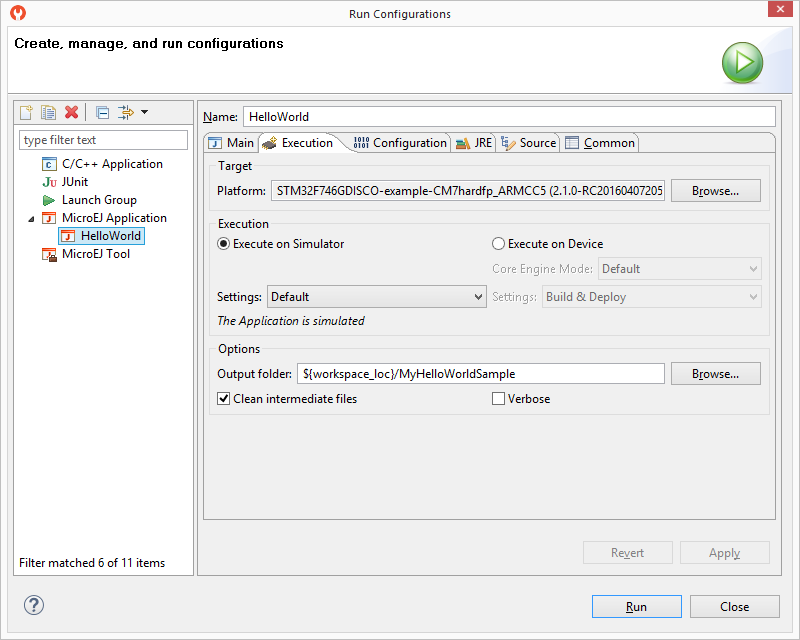
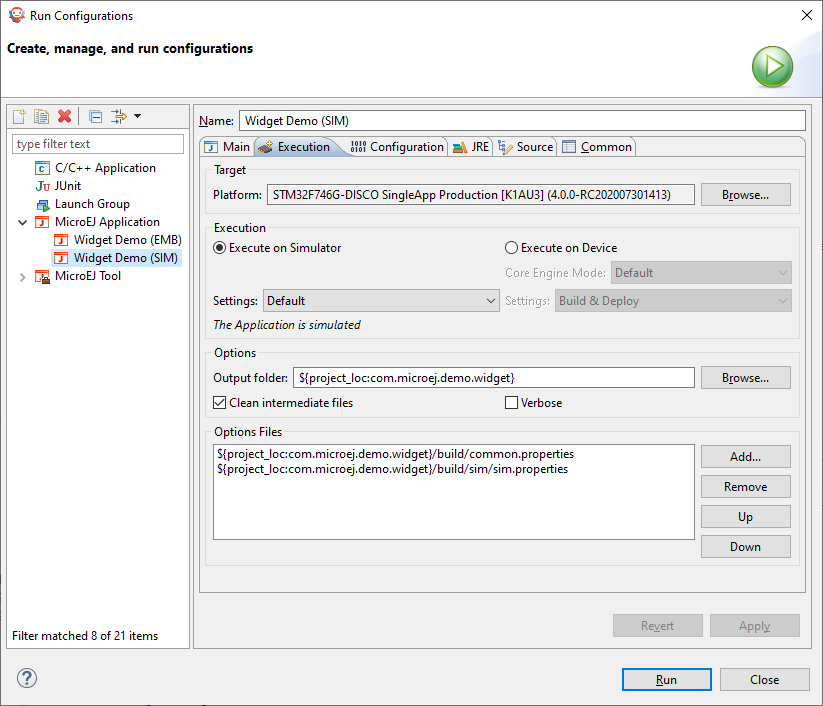
M0078DDG-292 Document how to set application options and behavior

Changed region(s): [[0.0, 0.0, 1.0, 1.0], [0.0, 0.0, 0.3438, 0.0938], [0.4375, 0.0, 0.5625, 0.0312]]

diff --git a/ApplicationDeveloperGuide/applicationOptions.rst b/ApplicationDeveloperGuide/applicationOptions.rst
@@ -42,22 +42,38 @@ To do this, select the ``Common tab`` and select the export path of the launcher
 Using a Properties File
 -----------------------
 
-To set an option in a properties file, perform the following steps:
+To create the properties files to use when building the application, perform the following steps:
 
-1. In your project, create a new ``.properties`` file.
-2. Edit this file in a text editor and add a line to set the desired option to the desired value. For example: ``soar.generate.classnames=false``.
+1. At the root of your project, create a ``build`` folder.
+2. In this folder, create an empty ``common.properties`` file which will be used to define options both for Simulator and for Device.
+3. Create a ``sim`` folder and an empty ``sim.properties`` file inside, which will be used to define options for Simulator only.
+4. Create a ``emb`` folder and an empty ``emb.properties`` file inside, which will be used to define options for Device only.
 
-It is recommended to index the properties file to your version control system.
+The figure below shows the expected tree of the ``build`` folder:
 
-To use the properties file in a launcher, perform the following steps:
+.. figure:: images/build-properties.png
+   :alt: Build Options Folder
+   :align: center
+
+   Build Options Folder
+
+It is recommended to index the properties files to your version control system.
+
+To set an option in a properties file, open the file in a text editor and add a line to set the desired option to the desired value. For example: ``soar.generate.classnames=false``.
+
+To use the properties files in a launcher, perform the following steps:
 
 1. In MicroEJ Studio/SDK, select ``Run`` > ``Run Configurations...``.
 2. Select the launcher of the application.
 3. Select the ``Execution`` tab.
 4. Under ``Option Files``, press ``Add...``.
-5. Select the ``.properties`` file and press ``Open``.
+5. Select the ``common.properties`` file and press ``Open``.
+6. Also add the ``sim.properties`` file for Simulator or the ``emb.properties`` file for Device.
 
-Multiple launchers can use the same properties file.
+.. note::
+
+   An option which is set in a properties file can not be modified in the ``Configuration`` tab.
+   In that case, hovering the pointer over the option field will show the location of the properties file in which the option is set.
 
 .. include:: sectionArchitectureOptions.rst
 

diff --git a/ApplicationDeveloperGuide/launches.rst b/ApplicationDeveloperGuide/launches.rst
@@ -56,8 +56,8 @@ verbose options (advanced debug purpose options).
 .. figure:: images/executionTab.png
    :alt: MicroEJ Launch Application Execution Tab
    :align: center
-   :width: 800px
-   :height: 640px
+   :width: 823px
+   :height: 706px
 
    MicroEJ Launch Application Execution Tab
 
